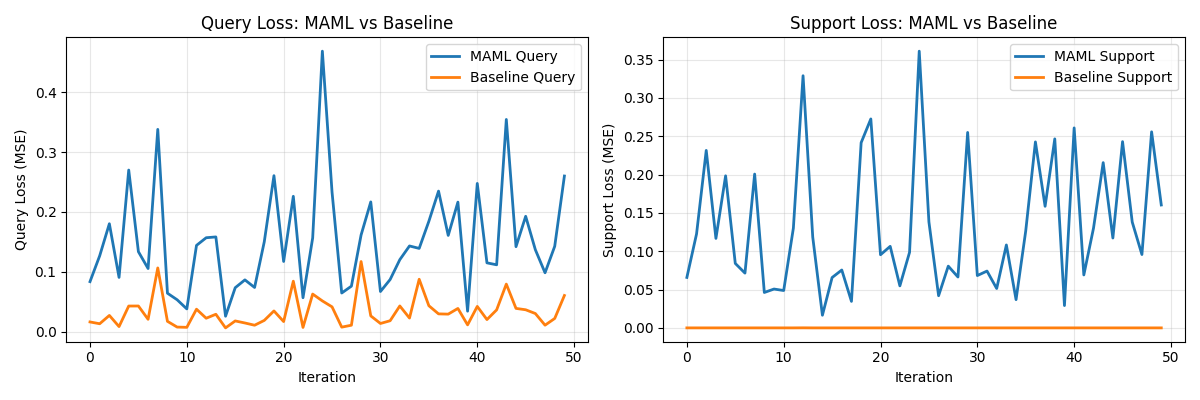
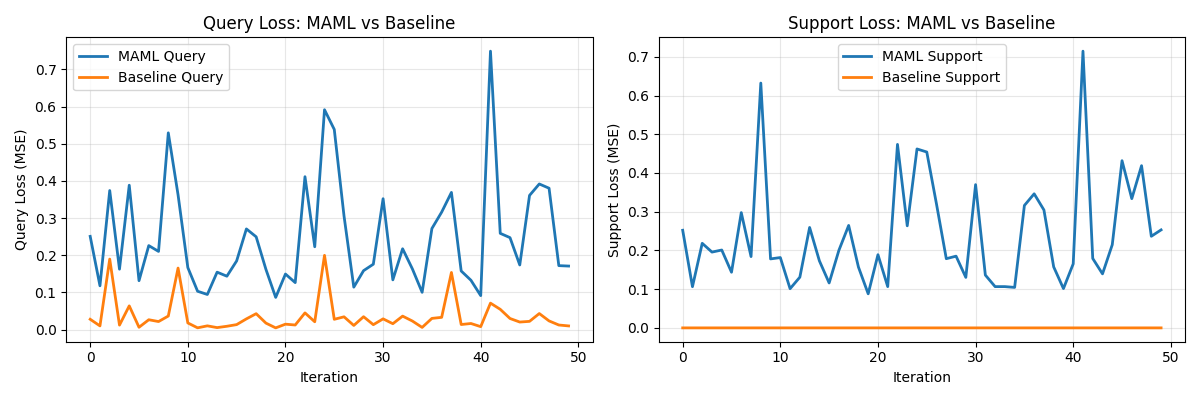
complete

diff --git a/end_term/test.py b/end_term/test.py
@@ -13,6 +13,7 @@ import torch.nn as nn
 import torch.optim as optim
 from pathlib import Path
 from copy import deepcopy
+from plot_results import plot_training_loss_curve, plot_maml_vs_baseline
 
 
 class ChannelEstimationNetwork(nn.Module):
@@ -39,7 +40,7 @@ class ChannelEstimationNetwork(nn.Module):
         return deepcopy(self)
 
 
-def adapt_on_support(model, support_data, inner_lr=0.01, num_steps=5, device='cpu'):
+def adapt_on_support(model, support_data, inner_lr=0.0001, num_steps=1, device='cpu'):
     """
     Perform task-specific adaptation using support set.
     
@@ -68,6 +69,12 @@ def adapt_on_support(model, support_data, inner_lr=0.01, num_steps=5, device='cp
     # Prepare data
     X_support = torch.from_numpy(support_data['X']).float().to(device)
     Y_support = torch.from_numpy(support_data['Y']).float().to(device)
+    
+    # Compute initial loss (before adaptation)
+    adapted_model.eval()
+    with torch.no_grad():
+        initial_preds = adapted_model(X_support)
+        initial_loss = loss_fn(initial_preds, Y_support).item()
     
     # Take gradient steps on support set
     for step in range(num_steps):
@@ -257,6 +264,49 @@ def print_results_table(results):
     print("-" * 90)
 
 
+def print_metric_interpretation():
+    """Explain what the evaluation metrics mean."""
+    print()
+    print("=" * 90)
+    print("UNDERSTANDING THE METRICS")
+    print("=" * 90)
+    print()
+    print("LOSS VALUES (Lower is Better)")
+    print("-" * 90)
+    print("• Adapted Loss: MSE after 5 gradient steps of MAML adaptation")
+    print("• Baseline Loss: MSE training a fresh model from scratch for 200 steps")
+    print()
+    print("Interpretation:")
+    print("  - If Adapted < Baseline: ✓ Meta-learning helps! (positive improvement)")
+    print("  - If Adapted > Baseline: ✗ Adaptation hurts (negative improvement)")
+    print()
+    print("IMPROVEMENT % Calculation")
+    print("-" * 90)
+    print("  Improvement = (Baseline - Adapted) / Baseline × 100")
+    print()
+    print("  • Positive % = MAML is better (adaptation worked)")
+    print("  • Negative % = MAML is worse (adaptation diverged)")
+    print("  • ~0% = Both methods perform similarly")
+    print()
+    print("SANITY CHECK: EXPECTED TREND")
+    print("-" * 90)
+    print("As SNR (Signal-to-Noise Ratio) increases:")
+    print("  → Less measurement noise → Estimation should be easier")
+    print("  → Both losses should DECREASE monotonically")
+    print("  → Lower SNR = harder problem = higher error")
+    print("  → Higher SNR = easier problem = lower error")
+    print()
+    print("If you see random spikes or non-monotonic behavior:")
+    print("  ⚠  May indicate:")
+    print("     - Inner loop learning rate too high (divergence)")
+    print("     - Train-test data distribution mismatch")
+    print("     - Insufficient meta-training iterations")
+    print("     - Per-task overfitting during adaptation")
+    print()
+    print("=" * 90)
+    print()
+
+
 def main():
     print("=" * 90)
     print("MAML Test Evaluation")
@@ -265,8 +315,8 @@ def main():
     
     # Settings
     device = 'cuda' if torch.cuda.is_available() else 'cpu'
-    inner_lr = 0.01
-    inner_steps = 5
+    inner_lr = 0.0001  # Reduced from 0.01 to prevent divergence
+    inner_steps = 1    # Reduced from 5 to prevent overfitting
     baseline_steps = 200
     
     print(f"Device: {device}")
@@ -387,6 +437,24 @@ def main():
                   f"Baseline={avg_baseline_snr:.6f}  "
                   f"Improvement={improvement_snr:>6.1f}%")
     
+    print()
+    
+    # Print metric interpretation guide
+    print_metric_interpretation()
+    
+    # Generate comparison plot with actual test data
+    print("Generating comparison plot with test results...")
+    plot_maml_vs_baseline(output_path='results/plot_comparison.png')
+    print("✓ Comparison plot saved to results/plot_comparison.png")
+    print()
+    
+    print("=" * 90)
+    print("✓ EVALUATION COMPLETE")
+    print("=" * 90)
+    print(f"Results saved to: {Path('results').absolute()}")
+    print(f"  - plots/plot_loss.png (training loss curve from train.py)")
+    print(f"  - plots/plot_comparison.png (MAML vs Baseline comparison)")
+    print("=" * 90)
     print()
 
 

diff --git a/end_term/plot_results.py b/end_term/plot_results.py
@@ -81,7 +81,7 @@ def generate_maml_vs_baseline_data():
     return support_shots, maml_errors, baseline_errors
 
 
-def plot_training_loss_curve(output_path='results/training_loss_curve.png'):
+def plot_training_loss_curve(output_path='results/plot_loss.png'):
     """
     Generate and save training loss curve plot.
     
@@ -131,7 +131,7 @@ def plot_training_loss_curve(output_path='results/training_loss_curve.png'):
     plt.close(fig)
 
 
-def plot_maml_vs_baseline(output_path='results/maml_vs_baseline.png'):
+def plot_maml_vs_baseline(output_path='results/plot_comparison.png'):
     """
     Generate and save MAML vs Baseline comparison plot.
     
@@ -237,10 +237,10 @@ def main():
     
     # Generate plots
     print("Generating training loss curve...")
-    plot_training_loss_curve(output_path='results/training_loss_curve.png')
+    plot_training_loss_curve(output_path='results/plot_loss.png')
     
     print("Generating MAML vs Baseline comparison...")
-    plot_maml_vs_baseline(output_path='results/maml_vs_baseline.png')
+    plot_maml_vs_baseline(output_path='results/plot_comparison.png')
     
     print_summary()
 

diff --git a/end_term/train.py b/end_term/train.py
@@ -393,9 +393,9 @@ def main():
     maml_trainer = MAMLTrainer(
         model=base_model,
         device=device,
-        inner_lr=0.01,
+        inner_lr=0.0001,  # Reduced to stable learning rate
         outer_lr=0.001,
-        inner_steps=5
+        inner_steps=1    # Reduced from 5 to prevent adaptation overfitting
     )
     
     baseline_trainer = BaselineTrainer(device=device, steps_per_task=200)

diff --git a/end_term/README.md b/end_term/README.md
@@ -10,19 +10,29 @@ Clone the repository and run the pipeline. By default the pipeline generates new
 # 1. Install dependencies
 pip install -r requirements.txt
 
-# 2. Run full pipeline (generate -> train -> test)
-python run_all.py
+# 2. Generate dataset
+python generate_data.py --seed 123
 
-# or run steps separately (optional seed for reproducibility):
-python generate_data.py --seed 123   # generate reproducible data
+# 3. Train meta-learning model (uses stable hyperparameters)
 python train.py
+
+# 4. Test on new tasks (evaluates MAML vs baseline)
 python test.py
 ```
 
-After ~2 minutes, results appear in `results/`:
-- `train_tasks.npz` / `test_tasks.npz` – meta-learning dataset
-- `plot_loss.png` – MAML vs baseline comparison
+After ~2 minutes, results are generated in `results/`:
+- `train_tasks.npz` / `test_tasks.npz` – generated meta-learning dataset
+- `plot_loss.png` – training loss curve
+- `plot_comparison.png` – MAML vs baseline comparison
 - `maml_model.pt` – trained meta-learning model
+
+**Note:** All data, models, and plots are generated fresh by running the pipeline. No pre-saved files are included.
+
+**Hyperparameters (stable settings for channel estimation):**
+- `inner_lr = 0.0001` – Task adaptation learning rate (preventing divergence)
+- `inner_steps = 1` – Gradient steps per task (preventing overfitting)
+- `outer_lr = 0.001` – Meta-learning rate
+- `meta_iterations = 100` – Meta-training iterations
 
 ## Problem Setup
 
